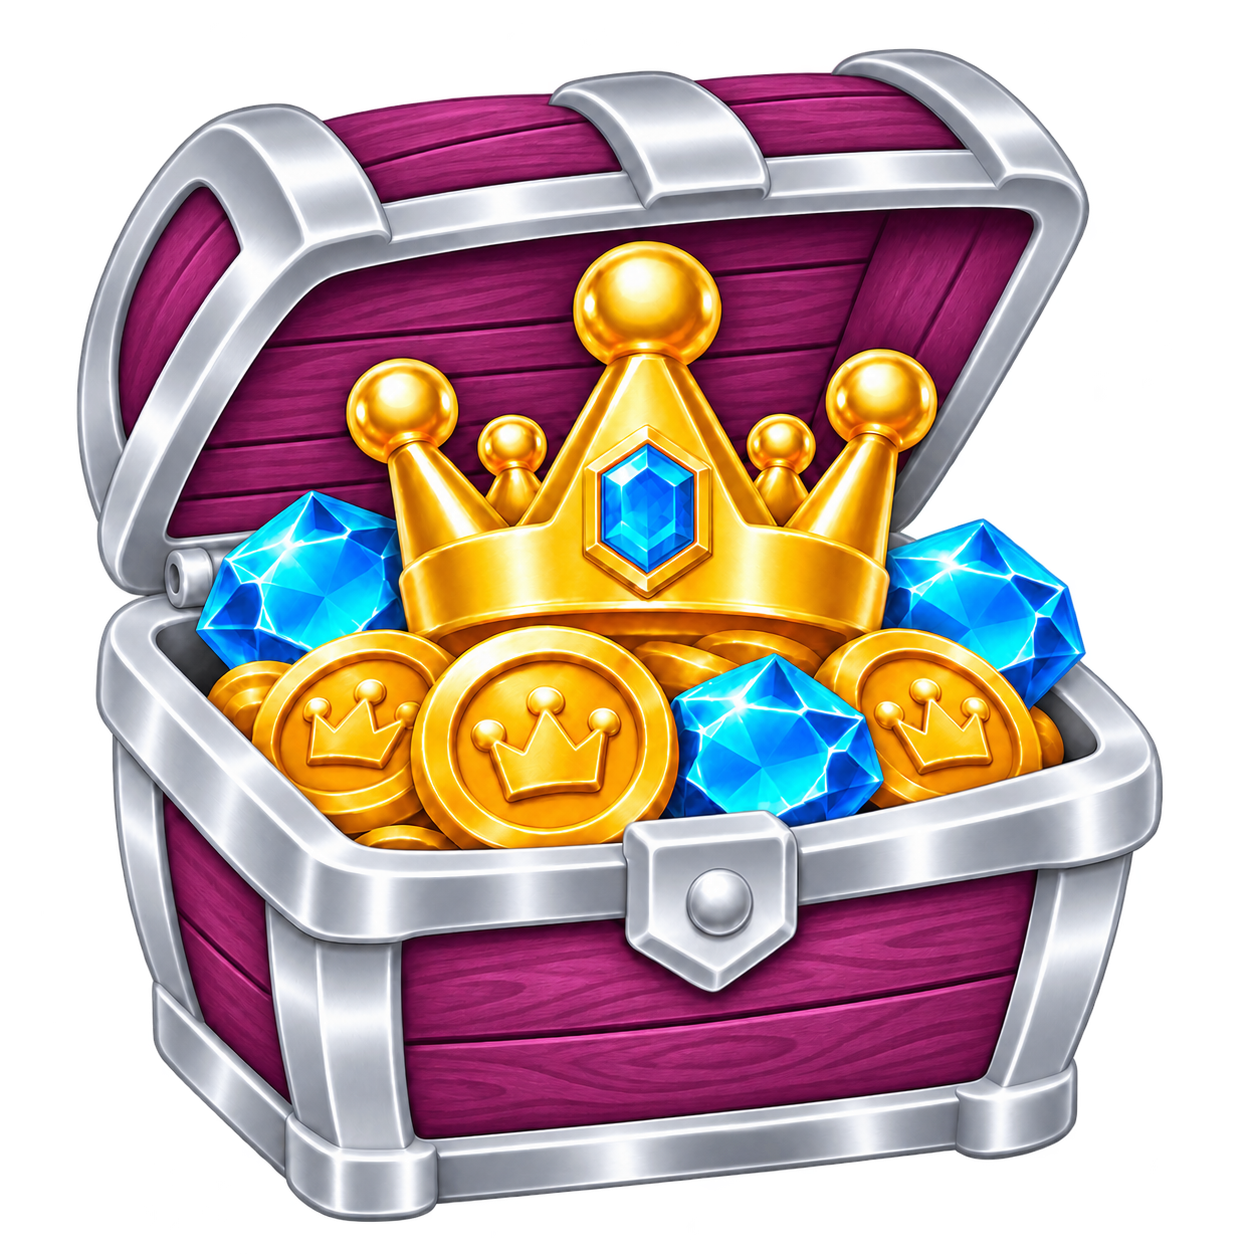
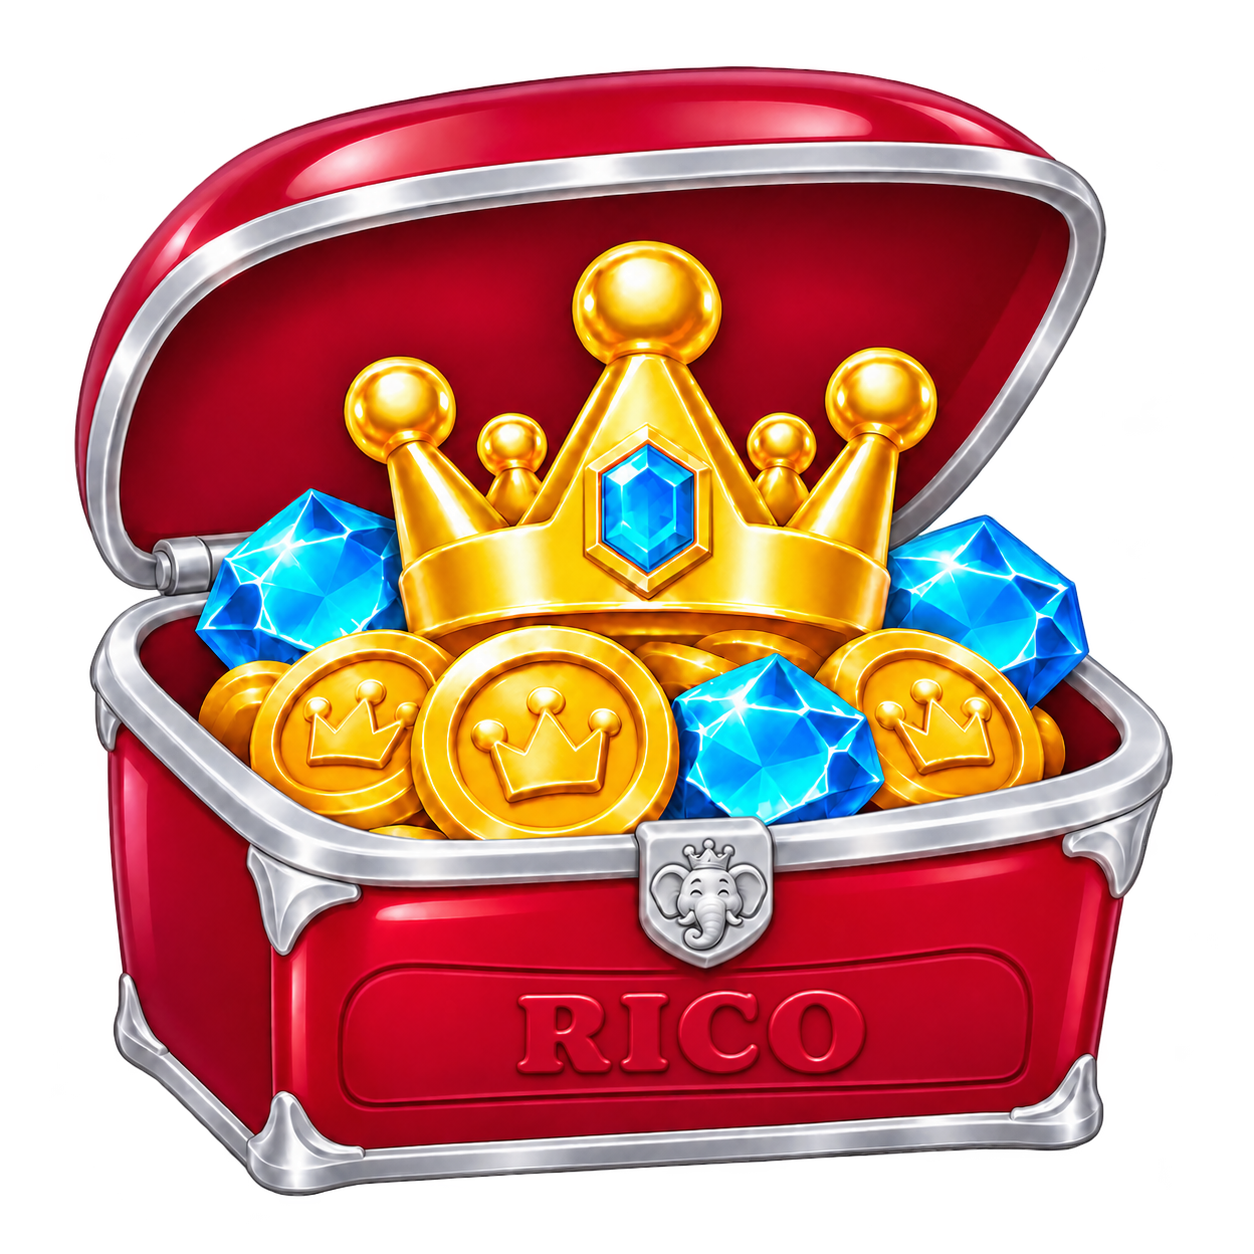
Troca a arte do baú por vermelho com gravura RICO

diff --git a/ui/park/reel-symbols.css b/ui/park/reel-symbols.css
@@ -6,7 +6,7 @@
 .park-reels [data-reel-symbol="2"]{--reel-art:url('/assets/symbols-v7.webp');--reel-size:1231.804401% 102.650367%;--reel-position:54.375383% 38.653137%;--reel-clip:0.000000% 0.000000% 0.000000% 0.479218%;}
 .park-reels [data-reel-symbol="0"]{--reel-art:url('/assets/symbols-v7.webp');--reel-size:1237.857494% 103.154791%;--reel-position:72.628847% 91.510903%;--reel-clip:0.000000% 0.000000% 0.000000% 0.000000%;}
 .park-reels [data-reel-symbol="6"]{--reel-art:url('/assets/symbols-v7.webp');--reel-size:1196.883117% 99.740260%;--reel-position:63.497514% 312.500000%;--reel-clip:0.811688% 0.000000% 0.000000% 1.688312%;}
-.park-reels [data-reel-symbol="8"]{--reel-art:url('/assets/symbols/treasure-chest-v2.webp');--reel-size:87.649269% 87.649269%;--reel-position:54.158215% 45.148749%;--reel-clip:5.576200% 5.661795% 6.774530% 6.688935%;}
+.park-reels [data-reel-symbol="8"]{--reel-art:url('/assets/symbols/treasure-chest-v2.webp');--reel-size:90.874459% 90.874459%;--reel-position:52.917457% 46.110057%;--reel-clip:4.207792% 4.296537% 4.917749% 4.829004%;}
 .park-reels [data-reel-symbol="7"]{--reel-art:url('/assets/king-rico/head-v1.webp');--reel-size:99.961905% 99.961905%;--reel-position:50.000000% 4150.000000%;--reel-clip:1.580952% 0.019048% 0.000000% 0.019048%;}
 .park-reels [data-reel-symbol="5"]{--reel-art:url('/assets/symbols/shield-defense-rainbow-gold-v1.webp');--reel-size:84.474849% 84.474849%;--reel-position:52.656817% 49.468637%;--reel-clip:7.680080% 7.350101% 7.845070% 8.175050%;}
 .park-reels [data-reel-symbol="11"]{--reel-art:url('/assets/symbols-v7.webp');--reel-size:1071.931915% 89.327660%;--reel-position:100.540052% 51.634769%;--reel-clip:5.510638% 5.248936% 5.161702% 5.423404%;}

diff --git a/docs/HANDOFF.md b/docs/HANDOFF.md
@@ -1,3 +1,11 @@
+## Baú vermelho aprovado — Codex, 27/11/2026
+Somente arte, na prévia: troca do PNG/WebP do baú no caminho ativo existente.
+Versão vermelha/prata com rosto gravado no fecho e RICO em vermelho na frente.
+Antiga roxa arquivada em archive/assets/chest-purple-2026-11-27/.
+Enquadramento do símbolo 8 regenerado pelo utilitário existente para preservar
+proporção/altura padronizada. Sem lógica, tabela de pagamentos, chances ou regras.
+Conferência visual focada; publicar Pages e dono avaliar Preview. Main intacta.
+
 ## Nova sequência visual dos rolos — Codex, 27/11/2026
 Base 9b0800e. Escopo confirmado pelo dono: SÓ trocar as imagens chamadas.
 Matemática, probabilidades, dados salvos, IDs, regras Firestore e testes

diff --git a/docs/PARQUE.md b/docs/PARQUE.md
@@ -746,3 +746,6 @@ Sem alterar valores ou chances, os IDs pagos existentes chamam estas artes:
 Os nomes internos legados do motor NÃO são nomes dos assets. O gerador de
 material dos rolos, a tabela e o seletor seguem esse mapping visual. Não trocar
 PAYS/WEIGHTS, probabilidades ou regras para fazer a arte coincidir com o ID.
+
+27/11/2026 (prévia): o baú ativo passa a vermelho/prata, rosto do King gravado
+no fecho e RICO em vermelho na frente. Mesmo ID 8, caminho e pagamento 5×.
